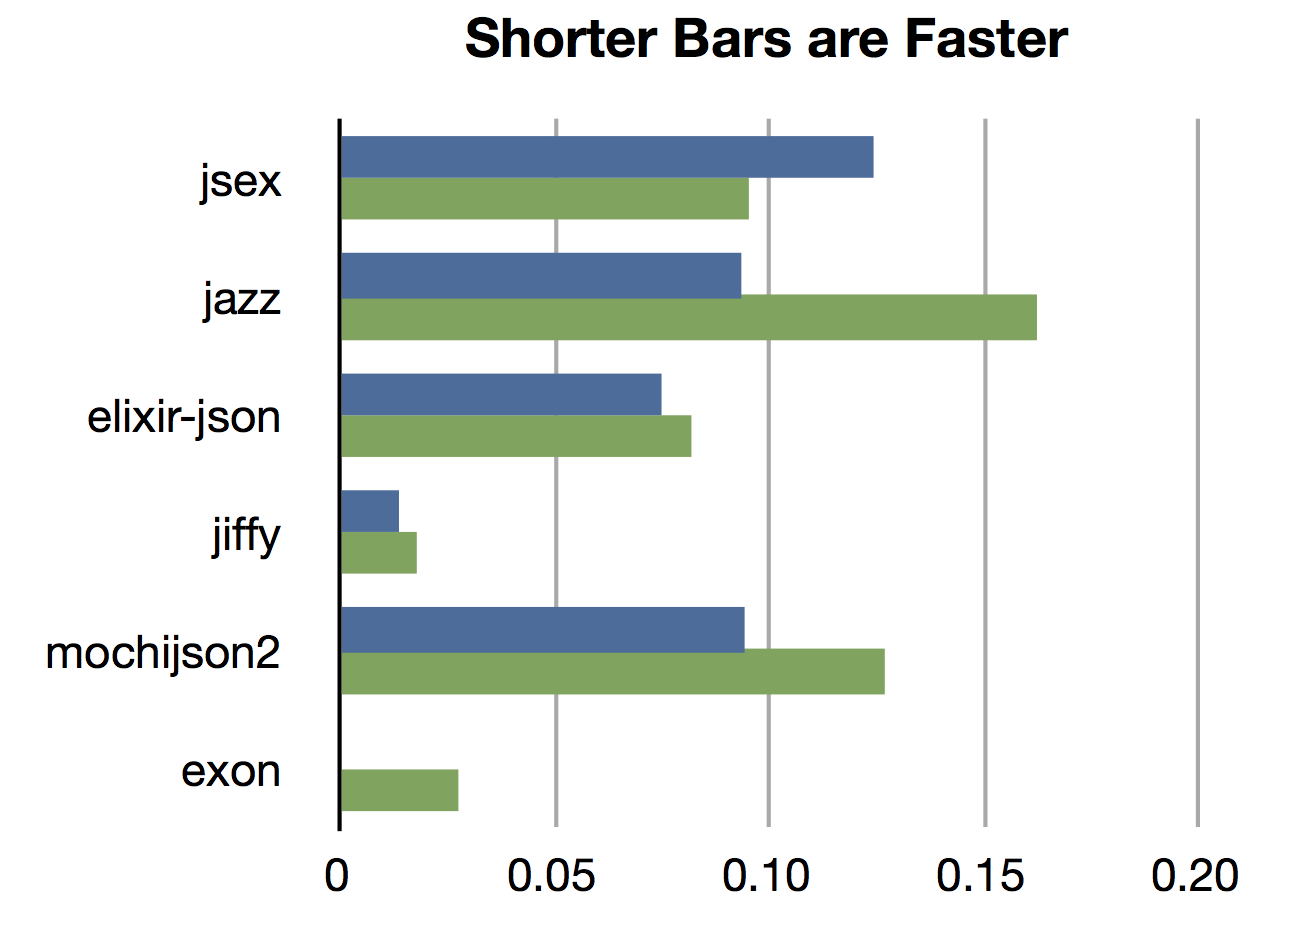
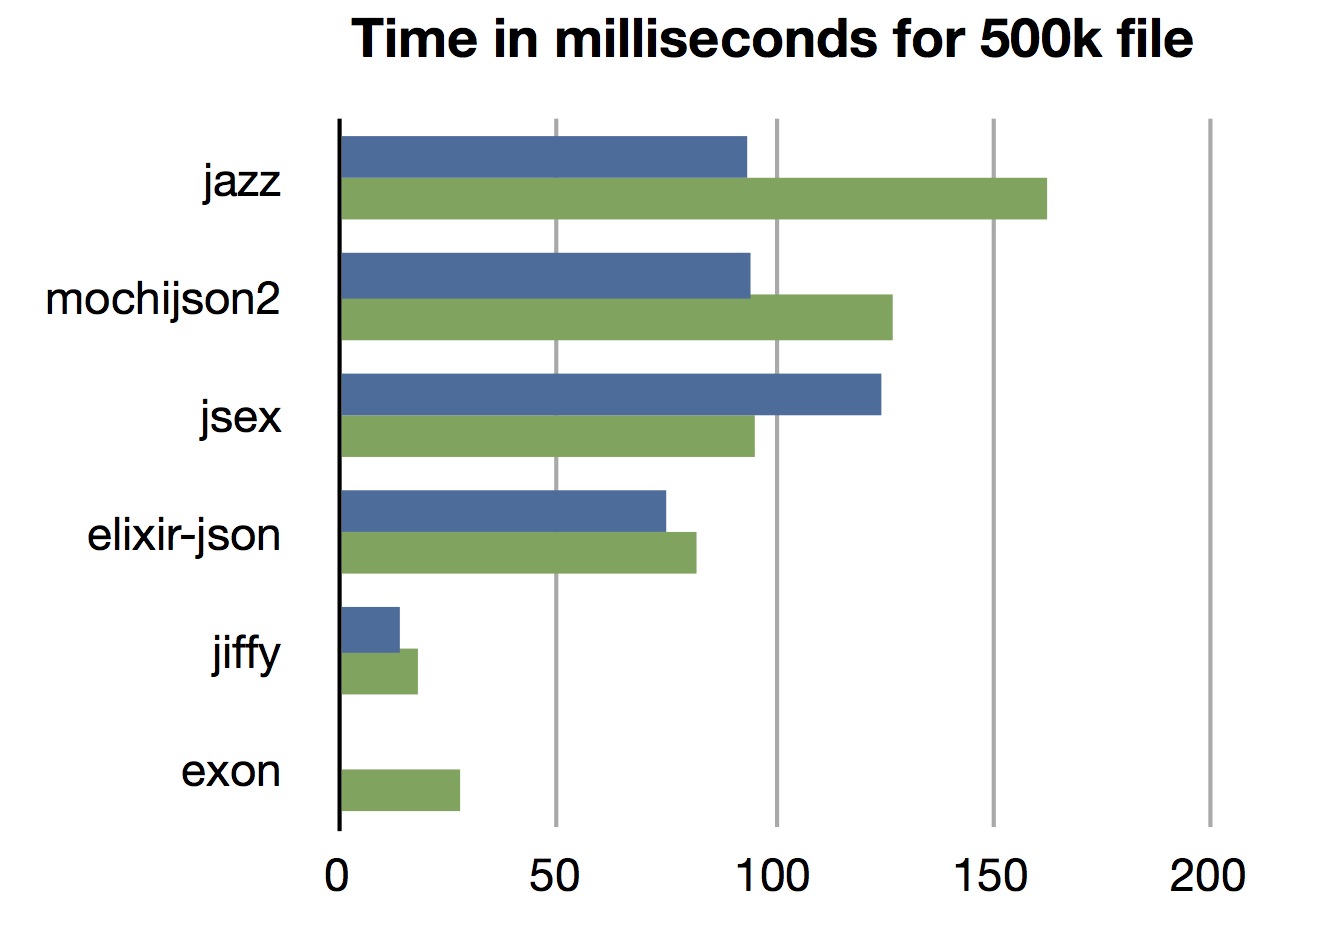
switched results to milliseconds

diff --git a/README.md b/README.md
@@ -2,13 +2,12 @@
 
 Performance measurement for JSON encoder/decoders.
 
-This is meant to see if there were any order of magnitude, or even %50 variances in performance of elixir native codecs. 
-There are not, which means the choice of API for JSON in Elixir mostly amounts to which API you like. 
+This is a rough test.  Three runs were done for each library on the same machine around the same time.  Still there was
+some observed variability in the results on the order of up to $30.  A more controlled experiment involving many more runs 
+and more variance in the data used for the test is necessary for real performance benchmarks. 
 
-If you want max performance, the NIF based Jiffy is included in the benchmarks, but NIFs have their own drawbacks. The rest of 
-the packages tested are a various mixes of elixir & erlang.
-
-Test data from: http://www.json-generator.com
+All test data from: http://www.json-generator.com  All the tests were run on the same 500k JSON file.  The structure of this 
+file may affect speeds significantly. 
 
 ### Usage
 
@@ -18,15 +17,44 @@ Test data from: http://www.json-generator.com
 	iex(1)> Shootout.timed_run
 
 ## Results
-Times in Seconds. Blue is Encode, Green is Decode. 500k file "test.json".
+Times in milliseconds. Blue is Encode, Green is Decode. 500k file "test.json".
 
 Results are taken from running all encoders multiple times on the same machine in the same time period, under Elixir 10.2-dev.
-Decode times were observed to be fairly variable. A better test would be to run many iterations to collect statistical results.
-
 
 ![results chart](https://raw.github.com/n1rvana/Shootout/master/chart.jpg "Results")
 
-## Notes:
+## Packages:
+
+### jazz
+{ :jazz, github: "meh/jazz"},
+
+Encode/Decode Times:  93.616ms / 16.496ms
+
+### mochijson
+{:mochijson2, github: "bjnortier/mochijson2"},
+
+Encode/Decode Times: 94.38ms / 127.038ms
+
+### jsex
+{:jsex, github: "talentdeficit/jsex"},
+
+Encode/Decode Times: 124.428ms / 95.362 ms
+
+### elixir-json
+{ :json, github: "cblage/elixir-json"},
+
+Encode/Decode Times: 75.018ms / 81.98ms
+
+### jiffy
+{:jiffy, github: "davisp/jiffy"},
+
+Encode/Decode Times: 13.84ms / 17.988ms
 
 - Jiffy is a NIF, so the processing is done in C, giving it such fast results.
+
+### exon
+{:exon, github: "betawaffle/exon"}
+
 - exon is pure elixir making it's speed quite impressive.  It doesn't do json encoding at this point, though.
+
+Encode/Decode Times:  NA / 27.683ms
